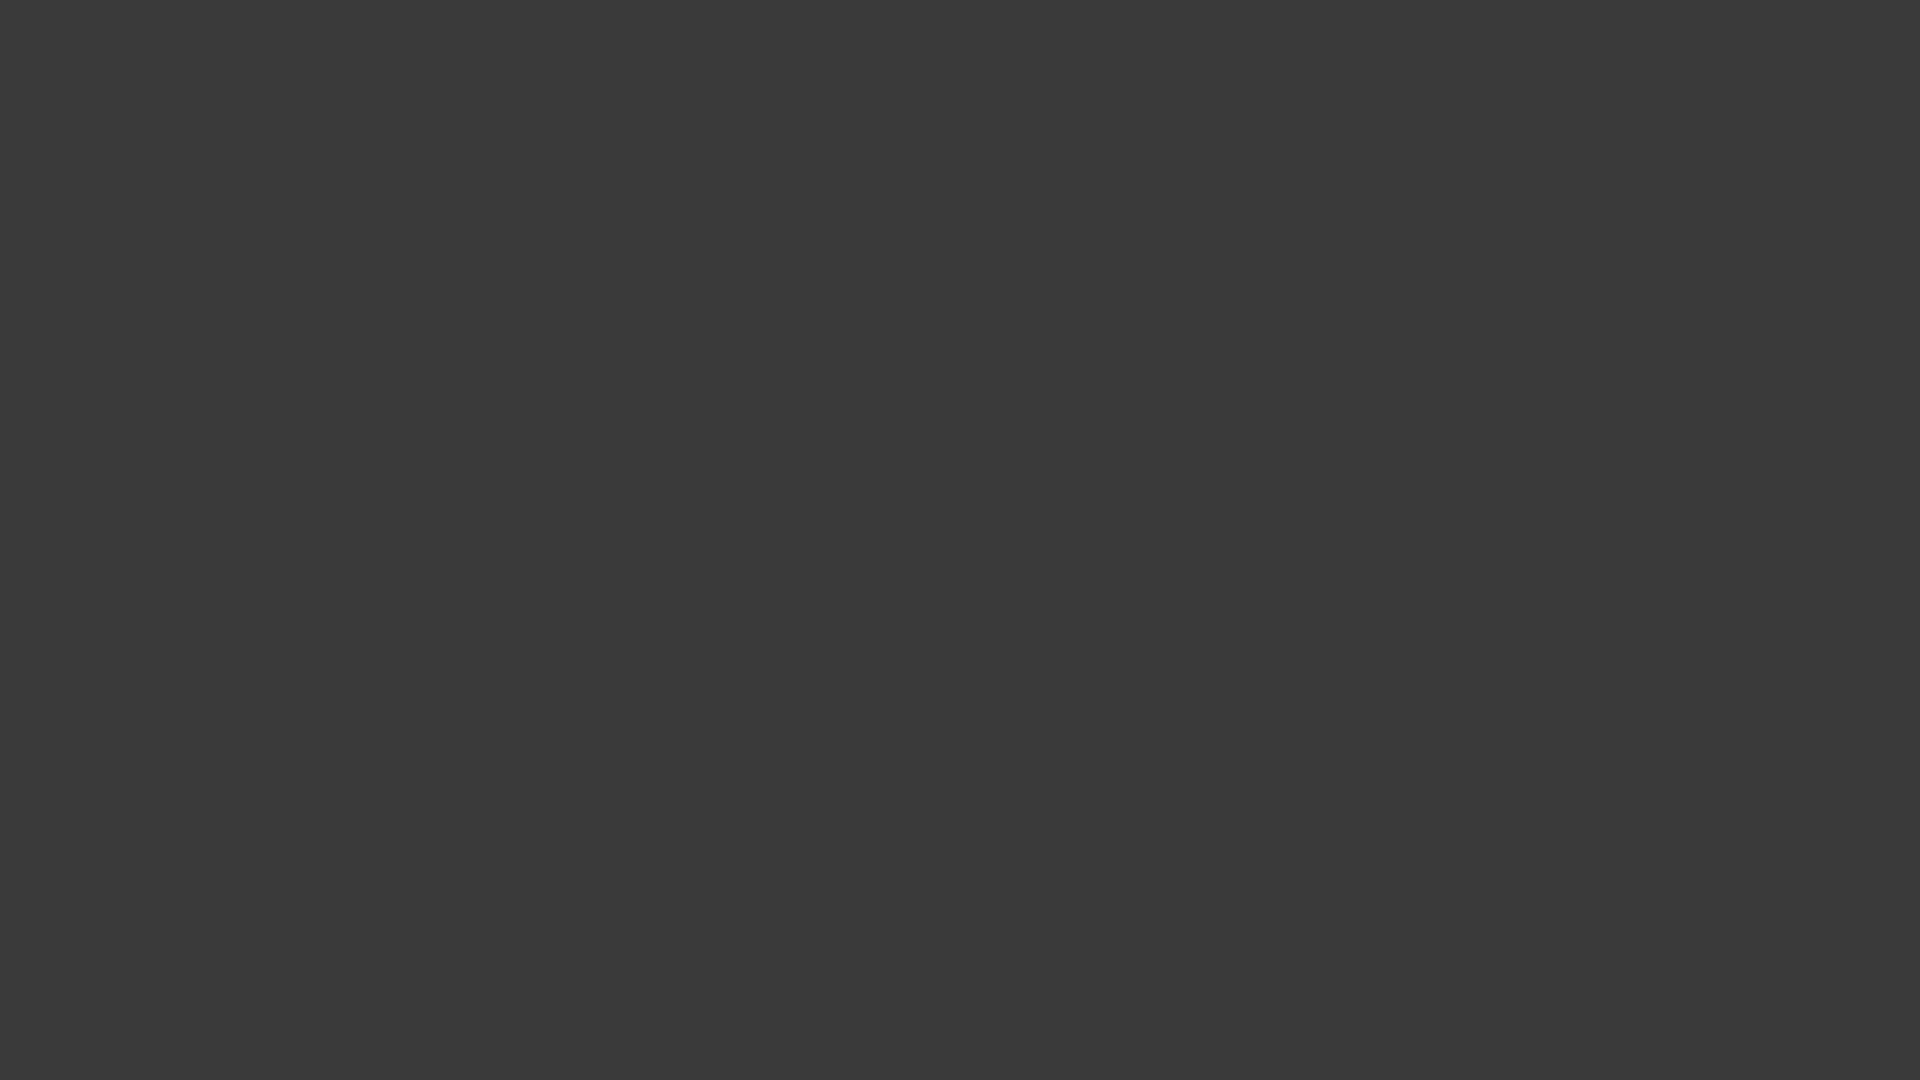
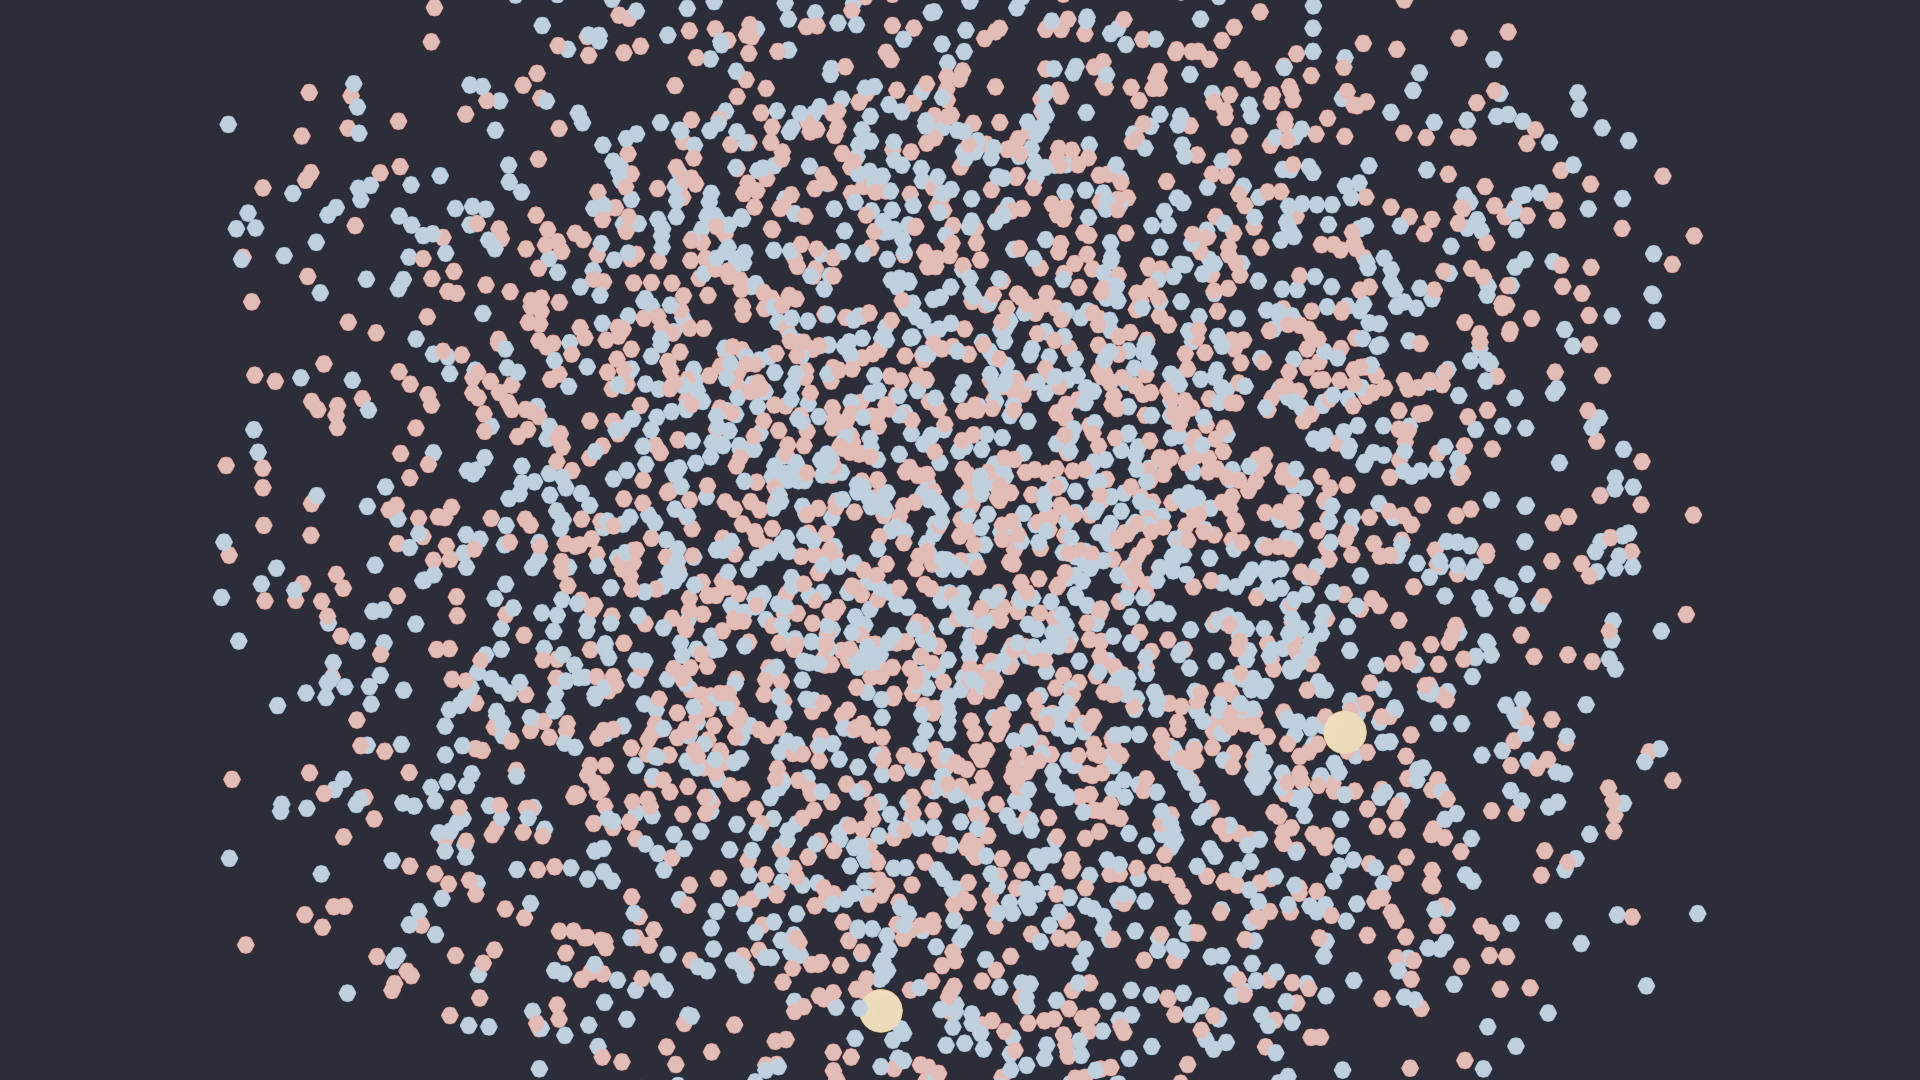
fix(render): blank frame — vibrations not rendered, sub-pixel spheres, camera clip_end too small
Three concrete bugs in tools/render_blender.py that combined to produce a
blank dark frame:

1. Free vibrations were not rendered at all — only k_pos nodes. With 4096
   vibrations and 2 electrons in the snapshot, the previous render was
   essentially empty.
2. Sphere radii (1.5–4 units) were sub-pixel at 1920×1080 with a 1000-unit
   box. Bumped to 0.8% of box diagonal for vibrations and 2–4.5% for nodes.
3. Default camera clip_end is 100 units; the camera sat ~2600 units from
   the box centre. Everything was clipped. Now sets clip_end = 10× longest
   side at scene construction.

Also:
- Vibrations are now vertex-instanced (one mesh per polarity, single
  prototype sphere parented with instance_type='VERTS') — handles 4096+
  vibrations without 4096 mesh objects.
- Camera rotation set explicitly via mathutils.to_track_quat — track-to
  constraint isn't always evaluated during background renders.
- Light energy scaled linearly with box size (was box² before, which
  produced 30M-watt lights for a 1000-unit box and washed out Eevee).
- Added box outline as a wireframe-modifier mesh.
- Engine selection between Cycles and Eevee, with Blender 5.x's
  BLENDER_EEVEE / BLENDER_EEVEE_NEXT enum compatibility.

Verified: at default config snapshot (4096 vibrations, 2 electrons)
the cloud renders with both polarities visible and the electrons
showing as warm yellow points.

diff --git a/tools/render_blender.py b/tools/render_blender.py
@@ -1,12 +1,17 @@
-"""Headless Blender Cycles renderer for snapshot keyframes.
+"""Headless Blender Cycles renderer for World of Vibrations snapshots.
 
 Invoke via:
-    blender -b -P tools/render_blender.py -- --snapshot snap.npz --output frame.png
+    blender -b -P tools/render_blender.py -- --snapshot snap.npz --output frame.png [--quality QUALITY] [--engine ENGINE]
 
 Inside Blender's Python:
-- Load snapshot
-- Build scene (camera, lights, instanced spheres per level)
-- Render to PNG
+- Load snapshot NPZ.
+- Build a scene with the box outlined, vibrations as point-instanced spheres,
+  and individual node meshes (electrons, pairs/triads/atoms with halos).
+- Render with Cycles (default) or Eevee Next.
+
+Rendering 4096 vibrations as individual mesh objects is prohibitively slow
+in Cycles. Vibrations are instanced via vertex instancing on a points mesh,
+which is fast and memory-efficient.
 """
 import sys
 import argparse
@@ -22,6 +27,9 @@ parser = argparse.ArgumentParser()
 parser.add_argument("--snapshot", type=Path, required=True)
 parser.add_argument("--output", type=Path, required=True)
 parser.add_argument("--quality", choices=["low", "medium", "high", "paper"], default="medium")
+parser.add_argument("--engine", choices=["cycles", "eevee"], default="cycles")
+parser.add_argument("--resolution", type=int, default=1920,
+                    help="output width in px; height is 9/16 of width")
 args = parser.parse_args(argv)
 
 # Lazy imports — these only work inside Blender
@@ -36,67 +44,280 @@ except ImportError:
 SAMPLES = {"low": 64, "medium": 256, "high": 1024, "paper": 4096}[args.quality]
 
 
+# ---------------------------------------------------------------------- helpers
+
 def clear_scene():
-    bpy.ops.object.select_all(action="SELECT")
-    bpy.ops.object.delete()
+    """Remove everything in the default scene — meshes, lights, cameras, materials."""
+    for collection in bpy.data.collections:
+        for obj in list(collection.objects):
+            bpy.data.objects.remove(obj, do_unlink=True)
+    for obj in list(bpy.data.objects):
+        bpy.data.objects.remove(obj, do_unlink=True)
+    for mesh in list(bpy.data.meshes):
+        bpy.data.meshes.remove(mesh)
+    for mat in list(bpy.data.materials):
+        bpy.data.materials.remove(mat)
+    for light in list(bpy.data.lights):
+        bpy.data.lights.remove(light)
+    for cam in list(bpy.data.cameras):
+        bpy.data.cameras.remove(cam)
 
 
-def setup_camera_and_lights(box_size):
-    # Camera at the long diagonal
-    cam_pos = (box_size[0] * 1.6, -box_size[1] * 1.2, box_size[2] * 1.4)
-    bpy.ops.object.camera_add(location=cam_pos)
-    cam = bpy.context.object
-    cam.rotation_euler = (1.0, 0, 0.7)
+def make_emission_material(name, color, strength=1.0):
+    mat = bpy.data.materials.new(name)
+    mat.use_nodes = True
+    nt = mat.node_tree
+    # Clear default nodes
+    for n in list(nt.nodes):
+        nt.nodes.remove(n)
+    out = nt.nodes.new("ShaderNodeOutputMaterial")
+    em = nt.nodes.new("ShaderNodeEmission")
+    em.inputs["Color"].default_value = (*color, 1.0)
+    em.inputs["Strength"].default_value = strength
+    nt.links.new(em.outputs["Emission"], out.inputs["Surface"])
+    return mat
+
+
+def make_glossy_material(name, color, emission_strength=0.0):
+    mat = bpy.data.materials.new(name)
+    mat.use_nodes = True
+    nt = mat.node_tree
+    bsdf = nt.nodes.get("Principled BSDF")
+    if bsdf is None:
+        bsdf = nt.nodes.new("ShaderNodeBsdfPrincipled")
+        out = nt.nodes.get("Material Output") or nt.nodes.new("ShaderNodeOutputMaterial")
+        nt.links.new(bsdf.outputs[0], out.inputs[0])
+    bsdf.inputs["Base Color"].default_value = (*color, 1.0)
+    if "Emission Color" in bsdf.inputs:
+        bsdf.inputs["Emission Color"].default_value = (*color, 1.0)
+        bsdf.inputs["Emission Strength"].default_value = emission_strength
+    if "Roughness" in bsdf.inputs:
+        bsdf.inputs["Roughness"].default_value = 0.4
+    return mat
+
+
+# ---------------------------------------------------------------------- camera
+
+def setup_camera_orthographic(box_size):
+    """Orthographic camera framing the entire box.
+
+    Looks at the box centre from outside one corner. Rotation set explicitly
+    via mathutils.Vector — track-to constraint isn't always evaluated during
+    background rendering.
+    """
+    import mathutils
+    bx, by, bz = box_size
+    centre = mathutils.Vector((bx * 0.5, by * 0.5, bz * 0.5))
+    longest = max(bx, by, bz)
+
+    # Camera along the (1, -1, 1) diagonal, far enough that it sees the whole box
+    cam_offset = mathutils.Vector((longest * 1.5, -longest * 1.5, longest * 1.5))
+    cam_pos = centre + cam_offset
+    direction = (centre - cam_pos).normalized()
+    rot_quat = direction.to_track_quat("-Z", "Y")
+
+    cam_data = bpy.data.cameras.new("camera")
+    cam_data.type = "ORTHO"
+    # Hexagonal projection of the box has diameter sqrt(2)·longest along the diagonal axis;
+    # use 1.8× to leave margin and accommodate node halos.
+    cam_data.ortho_scale = longest * 1.8
+    # Default clip_end is 100; our world is 1000+ units. Set explicit clip planes.
+    cam_data.clip_start = 0.1
+    cam_data.clip_end = longest * 10.0
+    cam = bpy.data.objects.new("camera", cam_data)
+    cam.location = cam_pos
+    cam.rotation_euler = rot_quat.to_euler()
+    bpy.context.collection.objects.link(cam)
     bpy.context.scene.camera = cam
 
-    # Three-point lighting
-    for loc, energy in [
-        ((box_size[0] * 1.5, -box_size[1] * 1.5, box_size[2] * 1.5), 1500.0),
-        ((-box_size[0] * 0.5, box_size[1] * 1.0, box_size[2] * 0.5), 800.0),
-        ((box_size[0] * 0.5, box_size[1] * 0.5, -box_size[2] * 0.3), 400.0),
+
+def setup_lights(box_size):
+    bx, by, bz = box_size
+    diag = max(bx, by, bz)
+    # Three-point lighting. Area-light energy in Watts; for a 1000-unit box
+    # values of a few thousand W give clean illumination in Eevee, ~10× that in Cycles.
+    # Scale linearly with box size so larger worlds stay correctly lit.
+    base = diag * 5.0  # 5000 W for a 1000-unit box; 50000 W for 10000-unit
+    for loc, energy_mult, name in [
+        ((bx * 1.4, -by * 0.4, bz * 1.5), 1.0, "key"),
+        ((-bx * 0.4, by * 1.4, bz * 0.6), 0.5, "fill"),
+        ((bx * 0.5, by * 0.5, -bz * 0.3), 0.25, "rim"),
     ]:
-        bpy.ops.object.light_add(type="AREA", location=loc)
-        light = bpy.context.object
-        light.data.energy = energy
+        light_data = bpy.data.lights.new(name=f"light_{name}", type="AREA")
+        light_data.energy = base * energy_mult
+        light_data.size = diag * 0.5
+        light_obj = bpy.data.objects.new(name=f"light_{name}", object_data=light_data)
+        light_obj.location = loc
+        bpy.context.collection.objects.link(light_obj)
 
 
-def add_node_meshes(positions, levels, alive):
-    """Add one sphere per alive node, sized by level."""
+def setup_world_background():
+    world = bpy.context.scene.world or bpy.data.worlds.new("World")
+    bpy.context.scene.world = world
+    world.use_nodes = True
+    nt = world.node_tree
+    bg = nt.nodes.get("Background")
+    if bg:
+        bg.inputs["Color"].default_value = (0.04, 0.04, 0.06, 1.0)
+        bg.inputs["Strength"].default_value = 0.8
+
+
+def add_box_outline(box_size):
+    """Wireframe box edges so the simulation volume is visible."""
+    bx, by, bz = box_size
+    corners = np.array([
+        [0, 0, 0], [bx, 0, 0], [bx, by, 0], [0, by, 0],
+        [0, 0, bz], [bx, 0, bz], [bx, by, bz], [0, by, bz],
+    ], dtype=np.float64)
+    edges = [
+        (0, 1), (1, 2), (2, 3), (3, 0),
+        (4, 5), (5, 6), (6, 7), (7, 4),
+        (0, 4), (1, 5), (2, 6), (3, 7),
+    ]
+    mesh = bpy.data.meshes.new("box_outline")
+    mesh.from_pydata(corners.tolist(), edges, [])
+    mesh.update()
+    obj = bpy.data.objects.new("box_outline", mesh)
+    bpy.context.collection.objects.link(obj)
+    # Wireframe modifier with a noticeable but not overwhelming width
+    mod = obj.modifiers.new("wireframe", "WIREFRAME")
+    mod.thickness = max(bx, by, bz) * 0.005
+    mat = make_emission_material("box_edges", (0.5, 0.55, 0.7), strength=4.0)
+    obj.data.materials.append(mat)
+
+
+# ---------------------------------------------------------------------- vibrations
+
+def add_vibrations_instanced(positions, polarities, alive, vibration_radius, box_size):
+    """Vertex-instance a single low-poly sphere onto every alive vibration.
+
+    Splits even/odd polarity into two parent meshes so each gets its own colour.
+    Far cheaper than 4096 individual mesh objects.
+    """
+    bx, by, bz = box_size
+    for pol_value, color, name in [
+        (True, (0.29, 0.56, 0.89), "vibr_even"),
+        (False, (0.91, 0.30, 0.24), "vibr_odd"),
+    ]:
+        mask = alive & (polarities == pol_value)
+        pts = positions[mask]
+        if len(pts) == 0:
+            continue
+
+        # Build the instance sphere
+        bpy.ops.mesh.primitive_uv_sphere_add(radius=vibration_radius, segments=8, ring_count=4)
+        instance = bpy.context.object
+        instance.name = f"{name}_instance"
+        mat = make_emission_material(f"{name}_mat", color, strength=2.5)
+        instance.data.materials.append(mat)
+
+        # Build the points mesh
+        points_mesh = bpy.data.meshes.new(f"{name}_points")
+        points_mesh.from_pydata(pts.tolist(), [], [])
+        points_mesh.update()
+        points_obj = bpy.data.objects.new(f"{name}_points", points_mesh)
+        bpy.context.collection.objects.link(points_obj)
+
+        # Parent the instance to the points mesh; instance at every vertex.
+        instance.parent = points_obj
+        points_obj.instance_type = "VERTS"
+
+
+# ---------------------------------------------------------------------- nodes
+
+def add_node_spheres(positions, levels, alive, box_size):
+    """Add individual spheres for nodes (electrons, pairs, triads, atoms)."""
+    bx, by, bz = box_size
+    diag = max(bx, by, bz)
+
+    # Sphere radii scaled to box size, large enough to be visible at 1920×1080
+    radius_for_level = {
+        1: diag * 0.020,    # electron: 2% of box diagonal
+        2: diag * 0.026,    # pair
+        3: diag * 0.032,    # triad
+        4: diag * 0.045,    # atom: 4.5% of box diagonal — clearly visible
+    }
+    color_for_level = {
+        1: (0.95, 0.61, 0.07),   # electron — orange
+        2: (0.85, 0.85, 0.90),   # pair — pale white
+        3: (0.95, 0.92, 0.85),   # triad — warm white
+        4: (1.0, 0.98, 0.90),    # atom — bright warm white
+    }
+    emission_for_level = {1: 4.0, 2: 1.5, 3: 2.5, 4: 8.0}
+
     for i in range(len(positions)):
         if not alive[i]:
             continue
         level = int(levels[i])
-        radius = {1: 1.5, 2: 2.0, 3: 2.5, 4: 4.0}.get(level, 1.0)
-        bpy.ops.mesh.primitive_uv_sphere_add(radius=radius, location=positions[i].tolist())
+        if level == 0:
+            continue
+        radius = radius_for_level.get(level, diag * 0.005)
+        color = color_for_level.get(level, (0.7, 0.7, 0.9))
+        emission = emission_for_level.get(level, 1.0)
+
+        bpy.ops.mesh.primitive_uv_sphere_add(
+            radius=radius,
+            segments=24, ring_count=12,
+            location=positions[i].tolist()
+        )
         obj = bpy.context.object
-        mat = bpy.data.materials.new(f"node_l{level}")
-        mat.use_nodes = True
-        bsdf = mat.node_tree.nodes.get("Principled BSDF")
-        color = {1: (1.0, 0.6, 0.07, 1), 4: (1.0, 1.0, 1.0, 1)}.get(level, (0.7, 0.7, 0.9, 1))
-        bsdf.inputs["Base Color"].default_value = color
-        if level == 4:
-            bsdf.inputs["Emission Strength"].default_value = 2.0
-            bsdf.inputs["Emission Color"].default_value = color
+        obj.name = f"node_l{level}_i{i}"
+        mat = make_glossy_material(f"node_l{level}_mat_{i}", color, emission_strength=emission)
         obj.data.materials.append(mat)
 
+
+# ---------------------------------------------------------------------- main
 
 def main():
     data = np.load(args.snapshot, allow_pickle=True)
     cfg_dict = eval(str(data["config_json"][0]))
     box_size = tuple(cfg_dict["box_size"])
+    bx, by, bz = box_size
+    diag = max(bx, by, bz)
+
+    s_pos = data["s_pos"]
+    s_pol = data["s_pol"]
+    s_alive = data["s_alive"]
+    k_pos = data["k_pos"]
+    k_level = data["k_level"]
+    k_alive = data["k_alive"]
+
+    n_vibrations = int(s_alive.sum())
+    n_nodes_total = int(k_alive.sum())
+    print(f"Snapshot: {n_vibrations} vibrations, {n_nodes_total} nodes; box {box_size}")
 
     clear_scene()
-    setup_camera_and_lights(box_size)
-    add_node_meshes(data["k_pos"], data["k_level"], data["k_alive"])
+    setup_world_background()
+    setup_camera_orthographic(box_size)
+    setup_lights(box_size)
+    add_box_outline(box_size)
+
+    # Vibrations radius = 0.8% of box diagonal — clearly visible at 1920×1080
+    vibration_radius = diag * 0.008
+    add_vibrations_instanced(s_pos, s_pol, s_alive, vibration_radius, box_size)
+    add_node_spheres(k_pos, k_level, k_alive, box_size)
 
     # Render settings
     scene = bpy.context.scene
-    scene.render.engine = "CYCLES"
-    scene.cycles.samples = SAMPLES
+    if args.engine == "cycles":
+        scene.render.engine = "CYCLES"
+        scene.cycles.samples = SAMPLES
+    else:
+        # Blender 5.x reports either BLENDER_EEVEE or BLENDER_EEVEE_NEXT depending on build
+        for engine_name in ("BLENDER_EEVEE_NEXT", "BLENDER_EEVEE"):
+            try:
+                scene.render.engine = engine_name
+                break
+            except TypeError:
+                continue
+        if hasattr(scene, "eevee"):
+            scene.eevee.taa_render_samples = SAMPLES
+
     scene.render.image_settings.file_format = "PNG"
     scene.render.filepath = str(args.output)
-    scene.render.resolution_x = 1920
-    scene.render.resolution_y = 1080
+    scene.render.resolution_x = args.resolution
+    scene.render.resolution_y = int(args.resolution * 9 // 16)
+    scene.render.film_transparent = False
 
     bpy.ops.render.render(write_still=True)
     print(f"Wrote {args.output}")